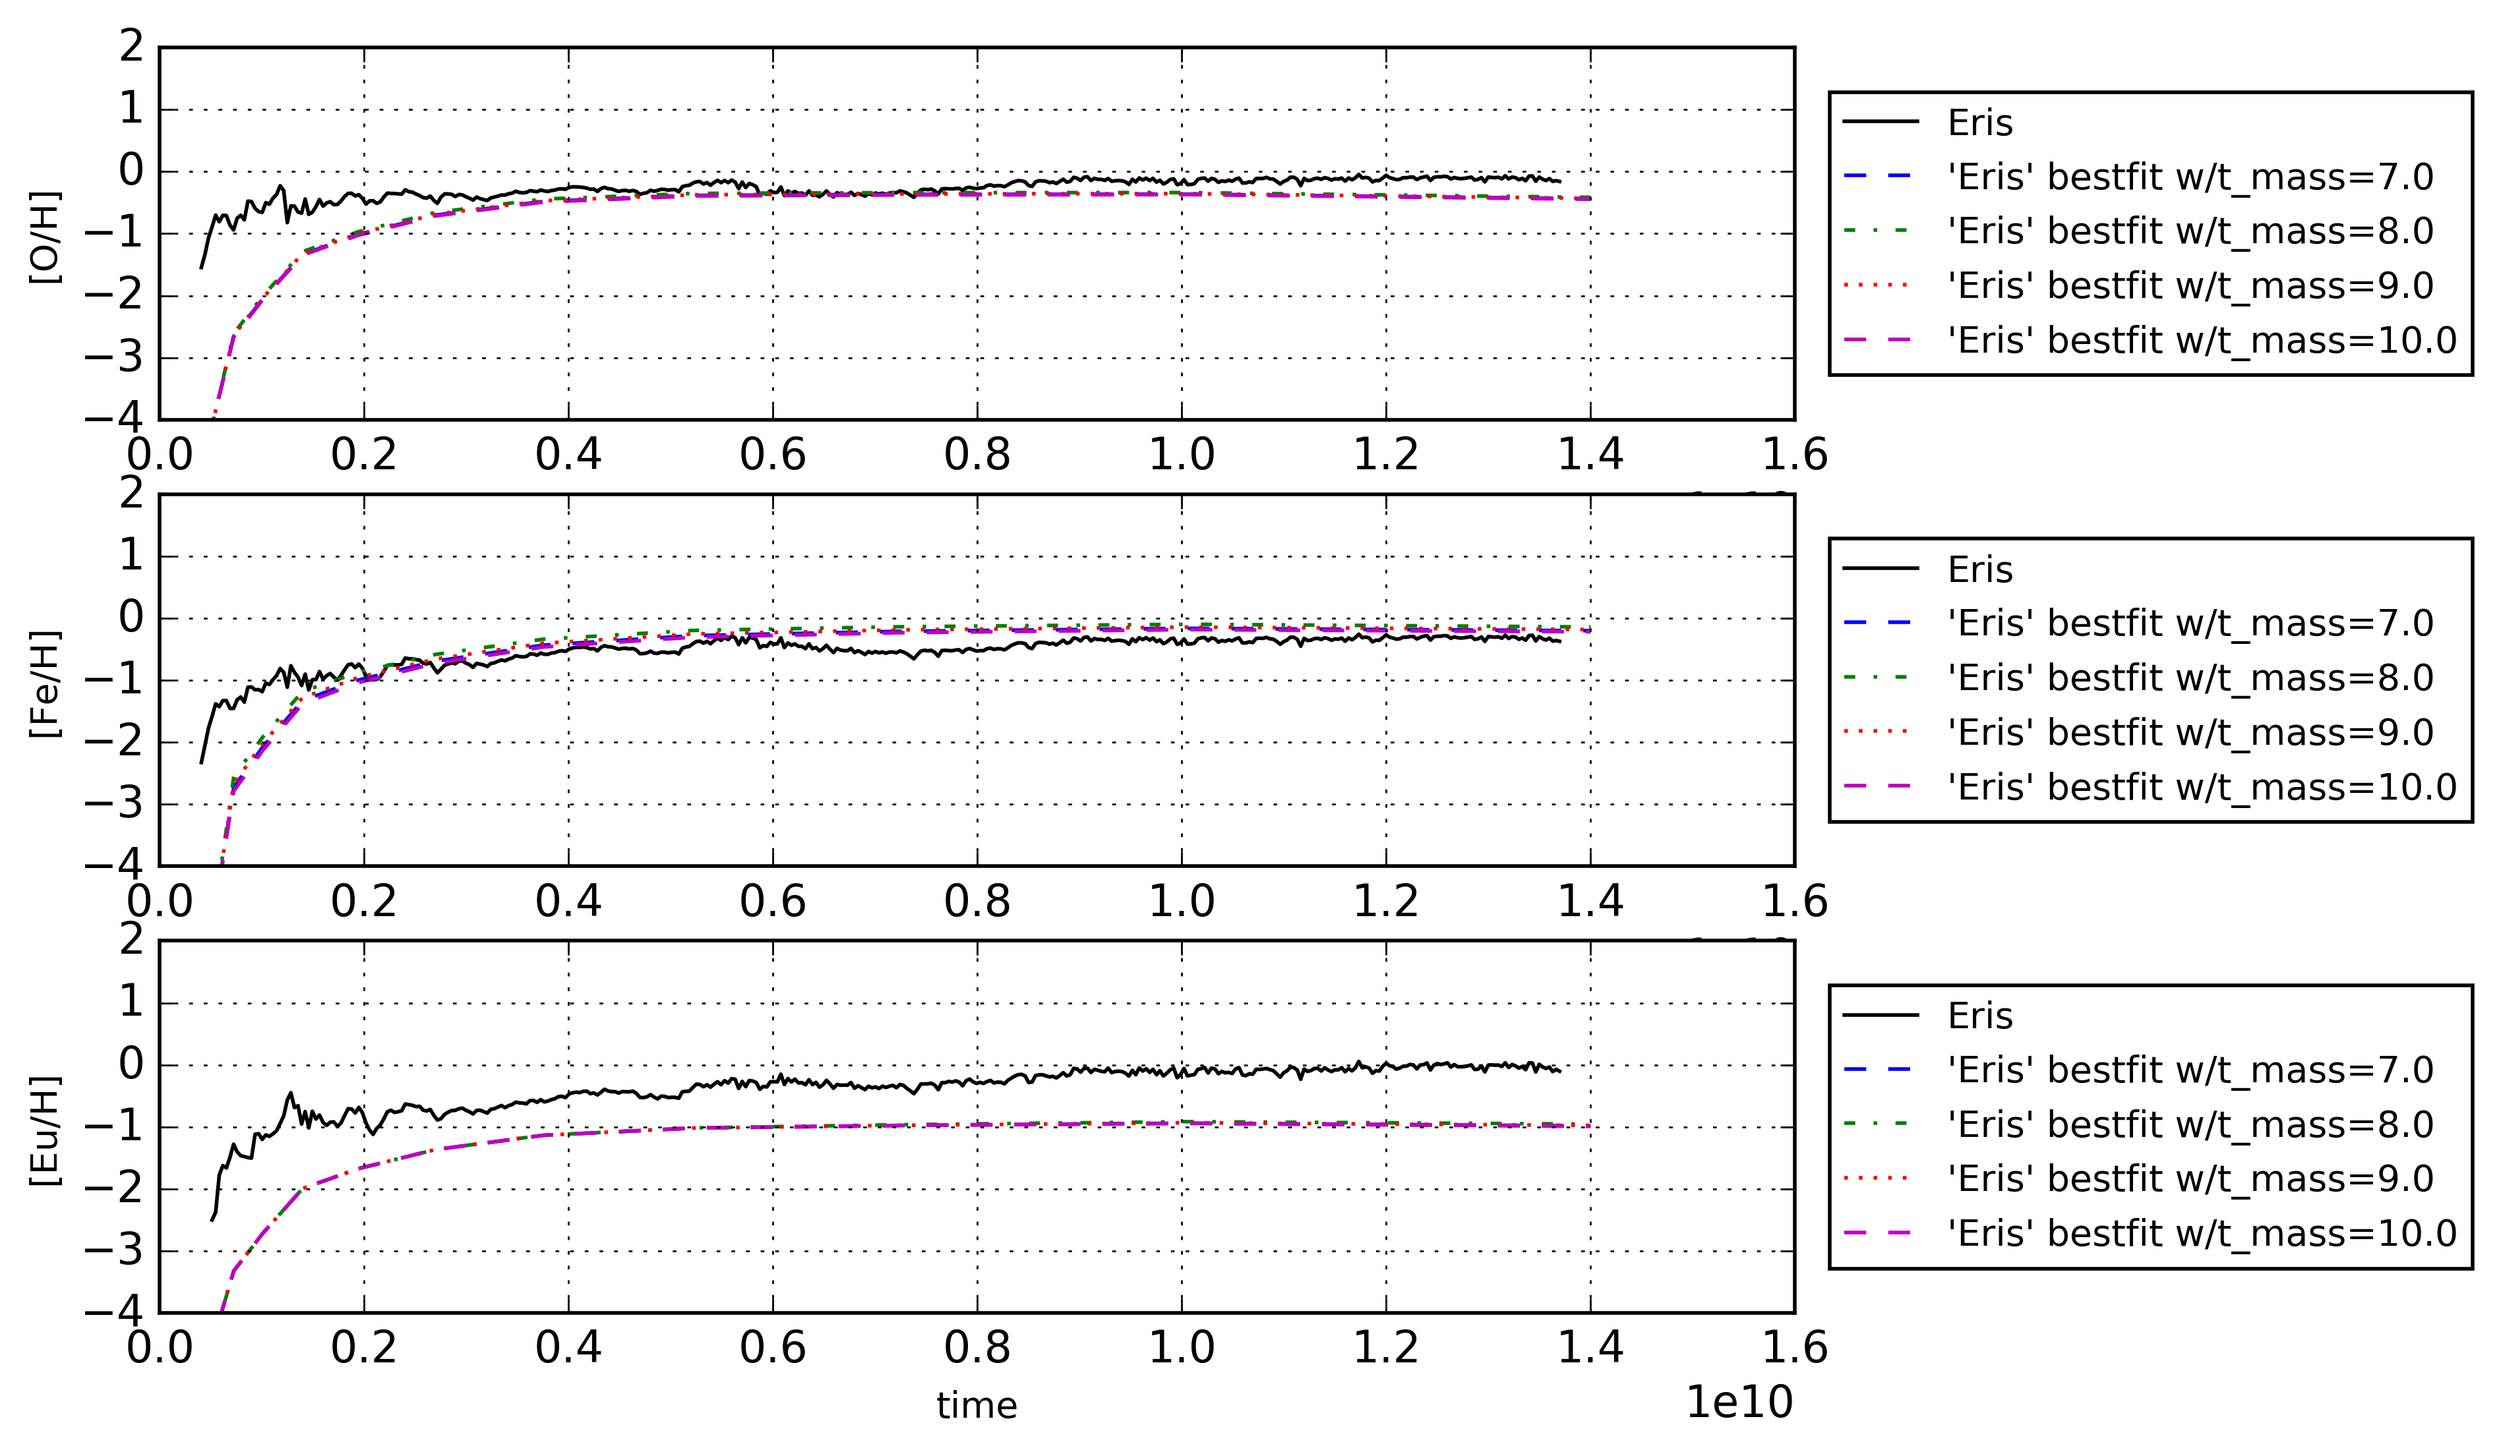
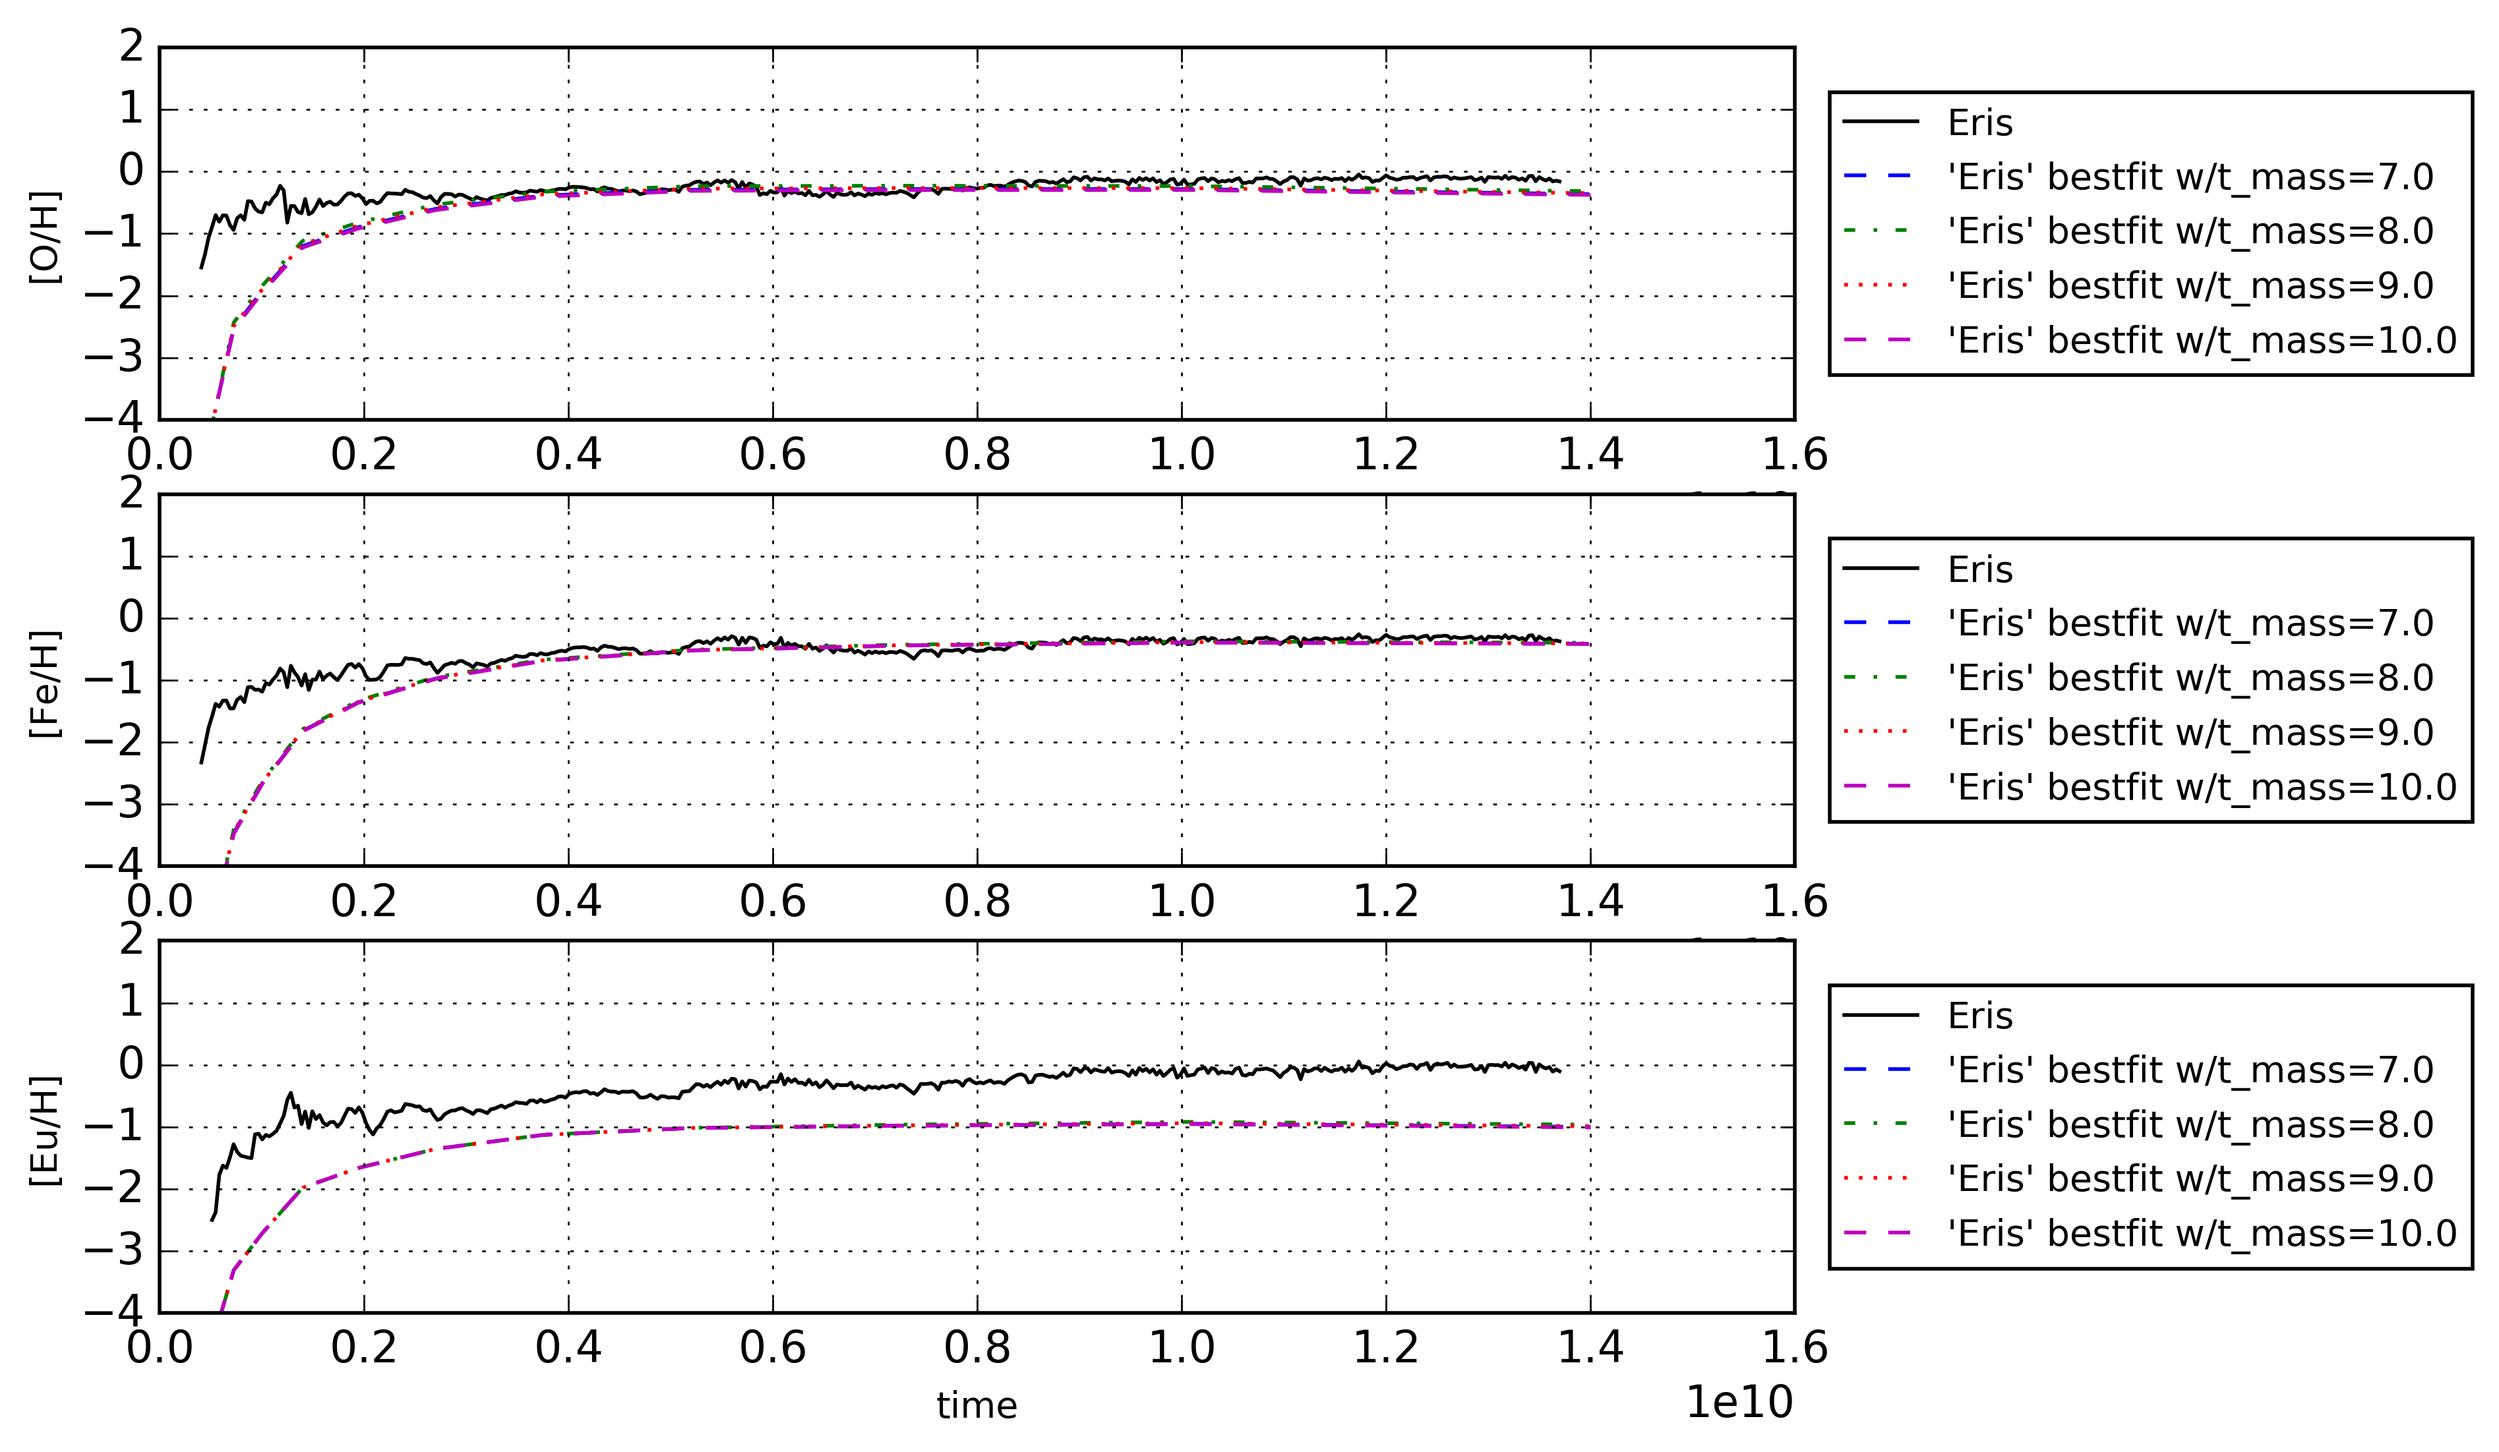
Update readme with images

diff --git a/bestfit_param_omega/find_bestfit_param_v2/README.md b/bestfit_param_omega/find_bestfit_param_v2/README.md
@@ -19,7 +19,10 @@ Parameters
 
 Results
 --------
-- Other agb and massive yield tables are buggy **Explain how they are buggy**
+- Other agb and massive yield tables
+  - Found minimal variation
+  - `nugrid_MESAonly_fryer12delay_wind_preexp` seems the best fit, by having the least amount of iron and most oxygen.
+  ![agbm-tables](data/star_parameters_v1_n30.png)
 - Population III stars
   - various tables have no effect on spectroscopic data **Can you explain in two lines why? I assume it's because you're considering heavy elements that are not produced in significant amounts by popIII stars. Btw. you should probably also comment on the discrepancy in Eu first time you show it (just stating that your only partway in the parameter tuning)**
   ![pop3-tables](data/star_parameters_v3_n300.png)
